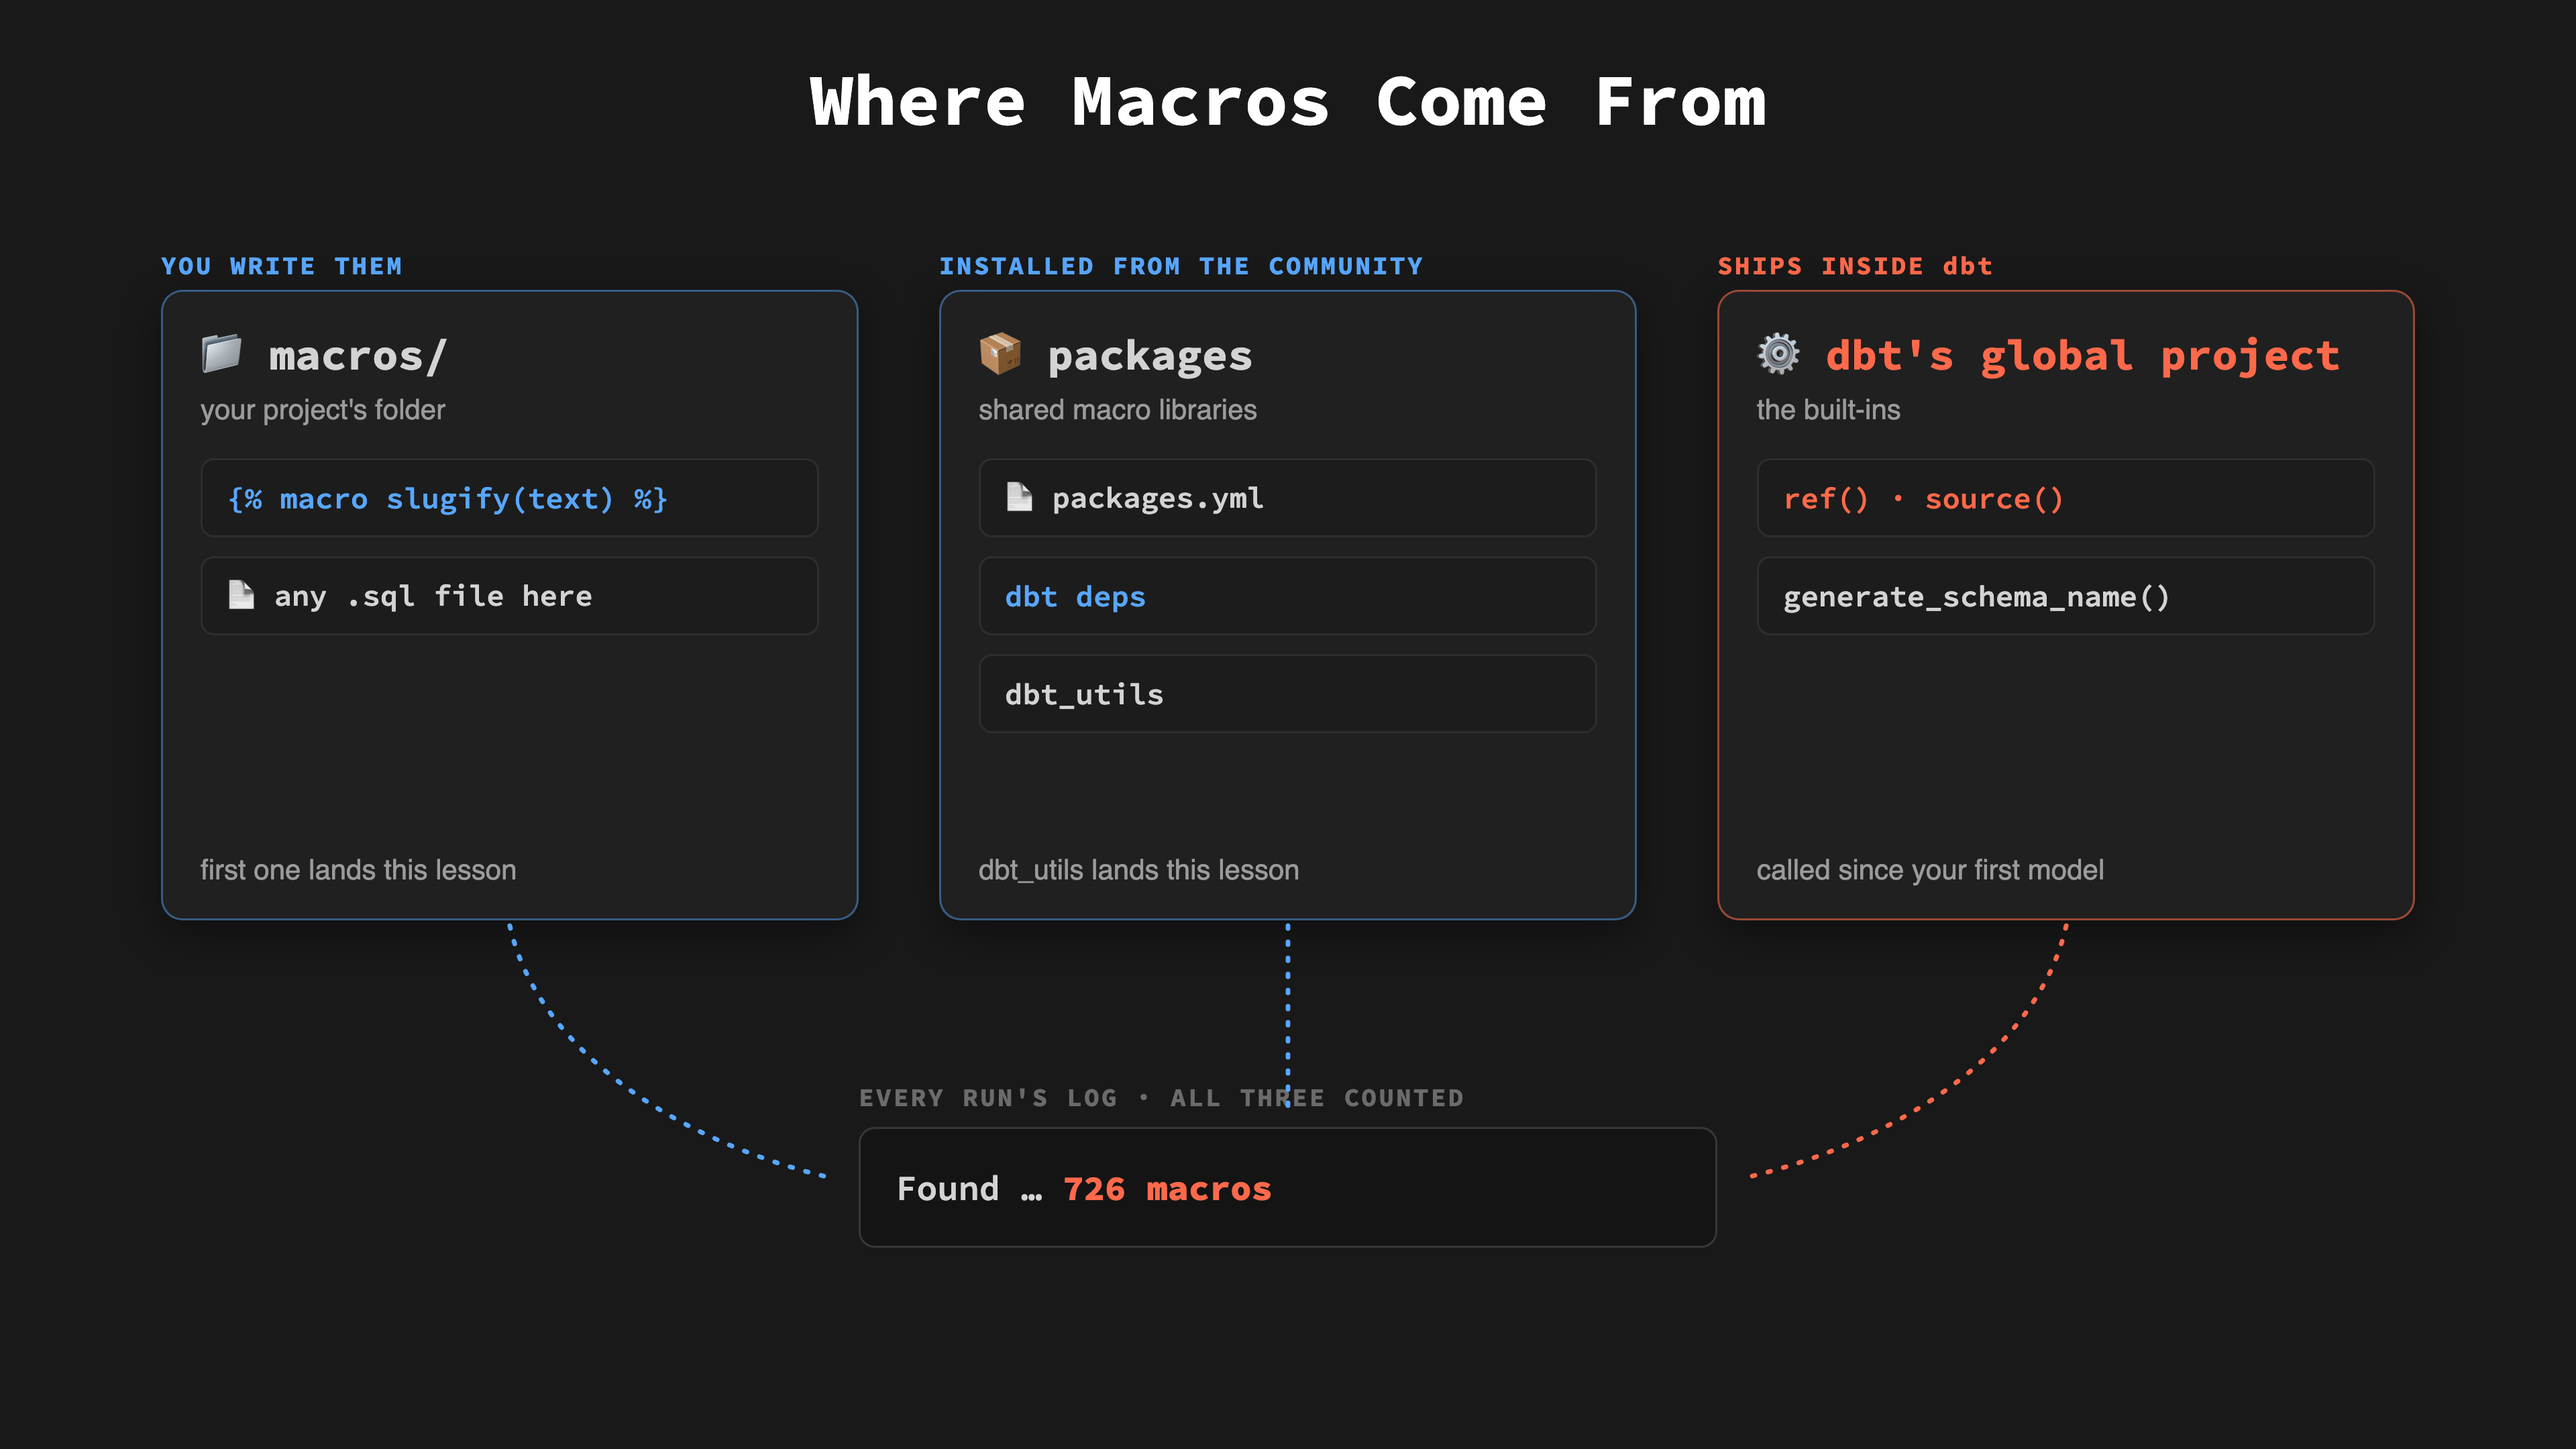
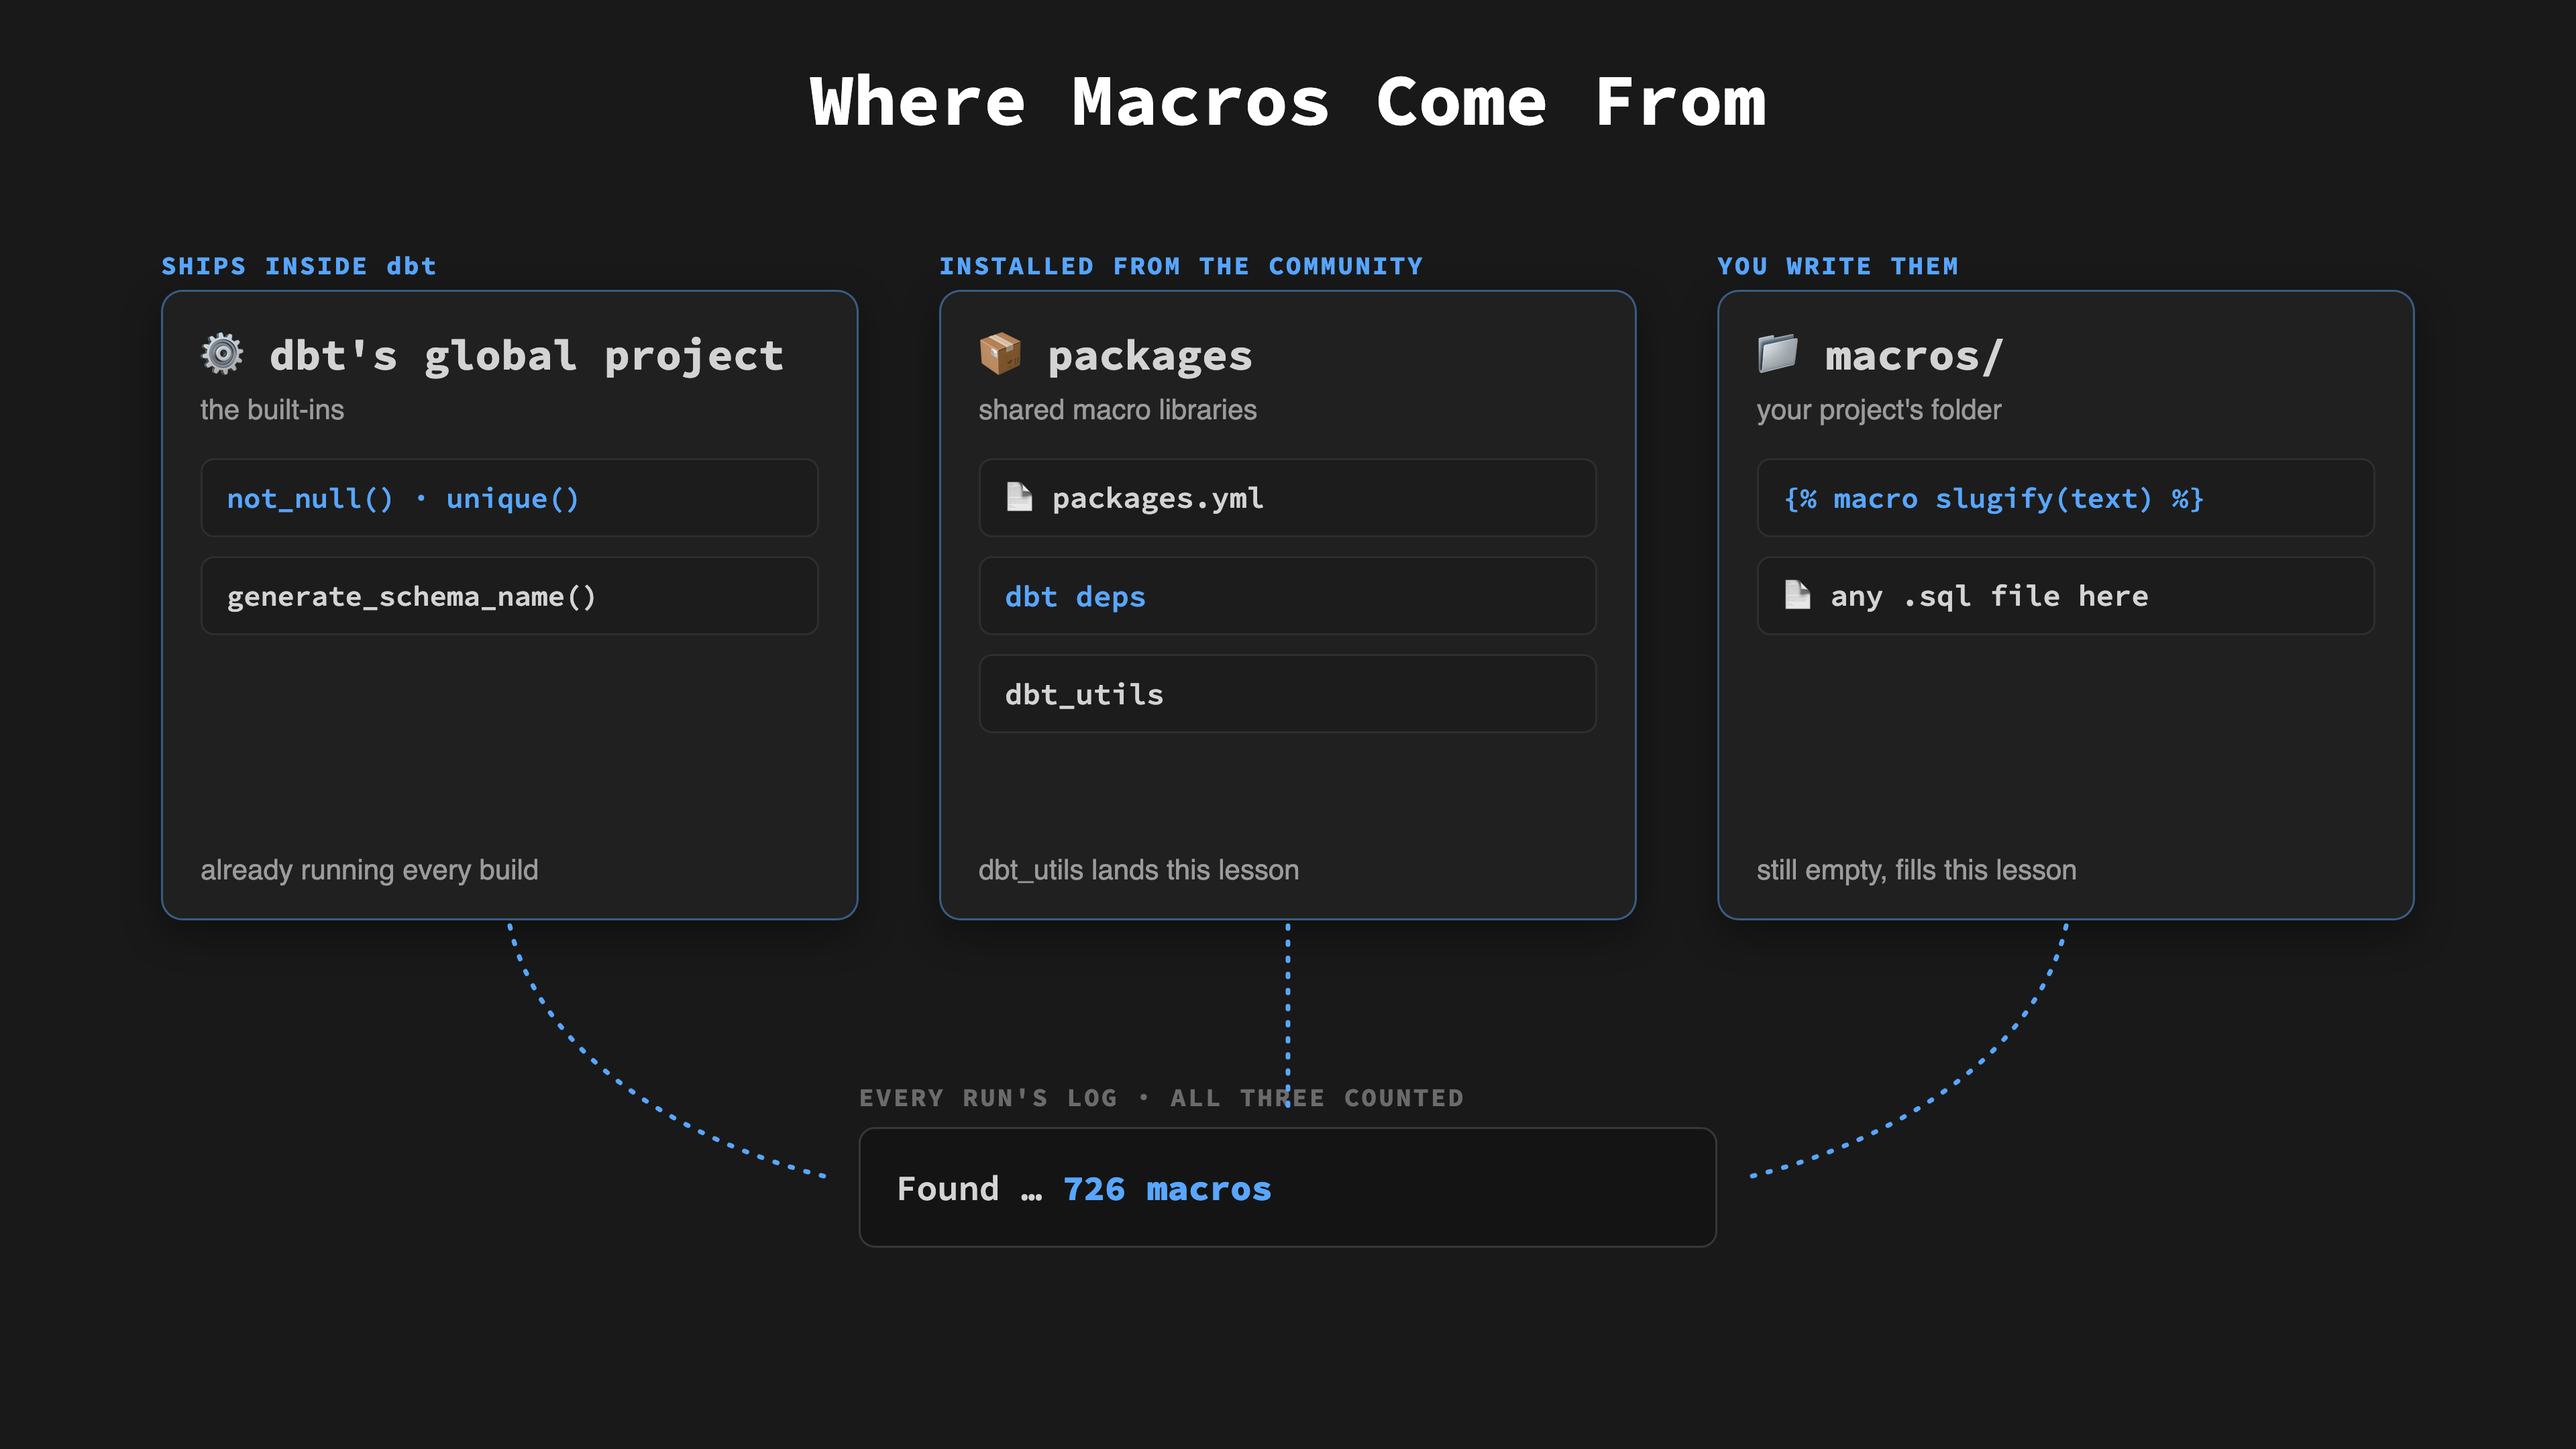
3.05_macro_sources v2 (Luke): card order flipped to built-ins -> packages -> yours, and the dbt-orange global-project card recolored blue
Luke's rulings: (1) tour runs outside-in, dbt's own first, ending on the empty macros/ folder that hands to the next topic; (2) stop using red/orange unless it means stop, fail, or something bad -- all three cards now carry the one decorative accent. Built-in card also swapped to macros students can actually OPEN (not_null/unique/generate_schema_name) since ref()/source() are Python context functions, not .sql files.

diff --git a/resources/diagrams/3.05_macro_sources.html b/resources/diagrams/3.05_macro_sources.html
@@ -19,9 +19,9 @@
   .title{position:absolute;left:0;top:40px;width:1920px;text-align:center;
     font-family:var(--mono);font-size:54px;font-weight:700;color:#FFFFFF}
   .card{position:absolute;box-sizing:border-box;border-radius:16px;background:var(--panel);
-    border:1.5px solid var(--line);box-shadow:0 10px 28px rgba(0,0,0,.38)}
+    border:1.5px solid rgba(88,166,255,.45);box-shadow:0 10px 28px rgba(0,0,0,.38)}
   .lbl{position:absolute;font-family:var(--mono);font-weight:700;letter-spacing:.08em;
-    font-size:19px;color:var(--faint);white-space:nowrap}
+    font-size:19px;color:var(--blue);white-space:nowrap}
   .name{font-family:var(--mono);font-weight:700;color:var(--text)}
   .chip{display:flex;align-items:center;gap:12px;height:56px;border-radius:10px;
     background:#1c1c1c;border:1.5px solid #2e2e2e;padding:0 18px;margin-top:14px;
@@ -37,21 +37,21 @@
 
   <div class="title">Where Macros Come From</div>
 
-  <!-- 1: your project -->
-  <div class="lbl" style="left:120px;top:186px;color:var(--blue)">YOU WRITE THEM</div>
-  <div class="card" style="left:120px;top:216px;width:520px;height:470px;border-color:rgba(88,166,255,.45)">
+  <!-- 1: dbt's built-ins -->
+  <div class="lbl" style="left:120px;top:186px">SHIPS INSIDE dbt</div>
+  <div class="card" style="left:120px;top:216px;width:520px;height:470px">
     <div style="padding:26px 28px 0">
-      <div class="name" style="font-size:32px">📁 macros/</div>
-      <div style="font-size:21px;color:var(--muted);margin-top:8px">your project's folder</div>
-      <div class="chip" style="margin-top:24px;color:var(--blue)">{% macro slugify(text) %}</div>
-      <div class="chip">📄 any .sql file here</div>
+      <div class="name" style="font-size:32px">⚙ dbt's global project</div>
+      <div style="font-size:21px;color:var(--muted);margin-top:8px">the built-ins</div>
+      <div class="chip" style="margin-top:24px;color:var(--blue);font-size:21px">not_null() · unique()</div>
+      <div class="chip" style="font-size:21px">generate_schema_name()</div>
     </div>
-    <div class="foot">first one lands this lesson</div>
+    <div class="foot">already running every build</div>
   </div>
 
   <!-- 2: packages -->
-  <div class="lbl" style="left:700px;top:186px;color:var(--blue)">INSTALLED FROM THE COMMUNITY</div>
-  <div class="card" style="left:700px;top:216px;width:520px;height:470px;border-color:rgba(88,166,255,.45)">
+  <div class="lbl" style="left:700px;top:186px">INSTALLED FROM THE COMMUNITY</div>
+  <div class="card" style="left:700px;top:216px;width:520px;height:470px">
     <div style="padding:26px 28px 0">
       <div class="name" style="font-size:32px">📦 packages</div>
       <div style="font-size:21px;color:var(--muted);margin-top:8px">shared macro libraries</div>
@@ -62,28 +62,28 @@
     <div class="foot">dbt_utils lands this lesson</div>
   </div>
 
-  <!-- 3: dbt built-in -->
-  <div class="lbl" style="left:1280px;top:186px;color:var(--dbt)">SHIPS INSIDE dbt</div>
-  <div class="card" style="left:1280px;top:216px;width:520px;height:470px;border-color:rgba(255,105,75,.55)">
+  <!-- 3: your own -->
+  <div class="lbl" style="left:1280px;top:186px">YOU WRITE THEM</div>
+  <div class="card" style="left:1280px;top:216px;width:520px;height:470px">
     <div style="padding:26px 28px 0">
-      <div class="name" style="font-size:32px;color:var(--dbt)">⚙ dbt's global project</div>
-      <div style="font-size:21px;color:var(--muted);margin-top:8px">the built-ins</div>
-      <div class="chip" style="margin-top:24px;color:var(--dbt)">ref() · source()</div>
-      <div class="chip">generate_schema_name()</div>
+      <div class="name" style="font-size:32px">📁 macros/</div>
+      <div style="font-size:21px;color:var(--muted);margin-top:8px">your project's folder</div>
+      <div class="chip" style="margin-top:24px;color:var(--blue);font-size:21px">{% macro slugify(text) %}</div>
+      <div class="chip">📄 any .sql file here</div>
     </div>
-    <div class="foot">called since your first model</div>
+    <div class="foot">still empty, fills this lesson</div>
   </div>
 
   <!-- the log-line receipt -->
-  <div class="lbl" style="left:640px;top:806px">EVERY RUN'S LOG · ALL THREE COUNTED</div>
+  <div class="lbl" style="left:640px;top:806px;color:var(--faint)">EVERY RUN'S LOG · ALL THREE COUNTED</div>
   <div class="term" style="left:640px;top:840px;width:640px;height:90px;display:flex;align-items:center">
-    <span style="font-size:26px;font-weight:600;color:var(--text)">Found … <span style="color:var(--dbt);font-weight:800">726 macros</span></span>
+    <span style="font-size:26px;font-weight:600;color:var(--text)">Found … <span style="color:var(--blue);font-weight:800">726 macros</span></span>
   </div>
 
   <svg class="art" viewBox="0 0 1920 1080">
     <path d="M 380 690 C 400 780, 500 850, 620 878" fill="none" stroke="#58A6FF" stroke-width="3.5" stroke-dasharray="2 10" stroke-linecap="round"/>
     <line x1="960" y1="690" x2="960" y2="832" stroke="#58A6FF" stroke-width="3.5" stroke-dasharray="2 10" stroke-linecap="round"/>
-    <path d="M 1540 690 C 1520 780, 1420 850, 1300 878" fill="none" stroke="#FF694B" stroke-width="3.5" stroke-dasharray="2 10" stroke-linecap="round"/>
+    <path d="M 1540 690 C 1520 780, 1420 850, 1300 878" fill="none" stroke="#58A6FF" stroke-width="3.5" stroke-dasharray="2 10" stroke-linecap="round"/>
   </svg>
 
 </div>
